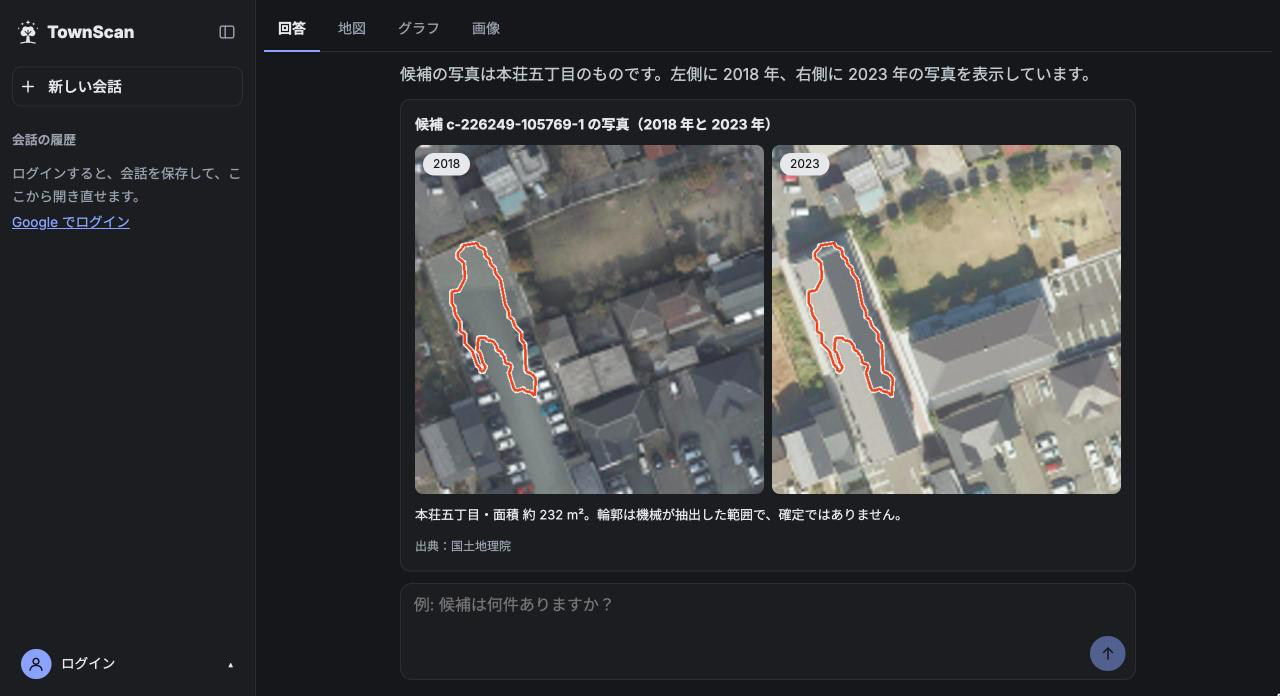
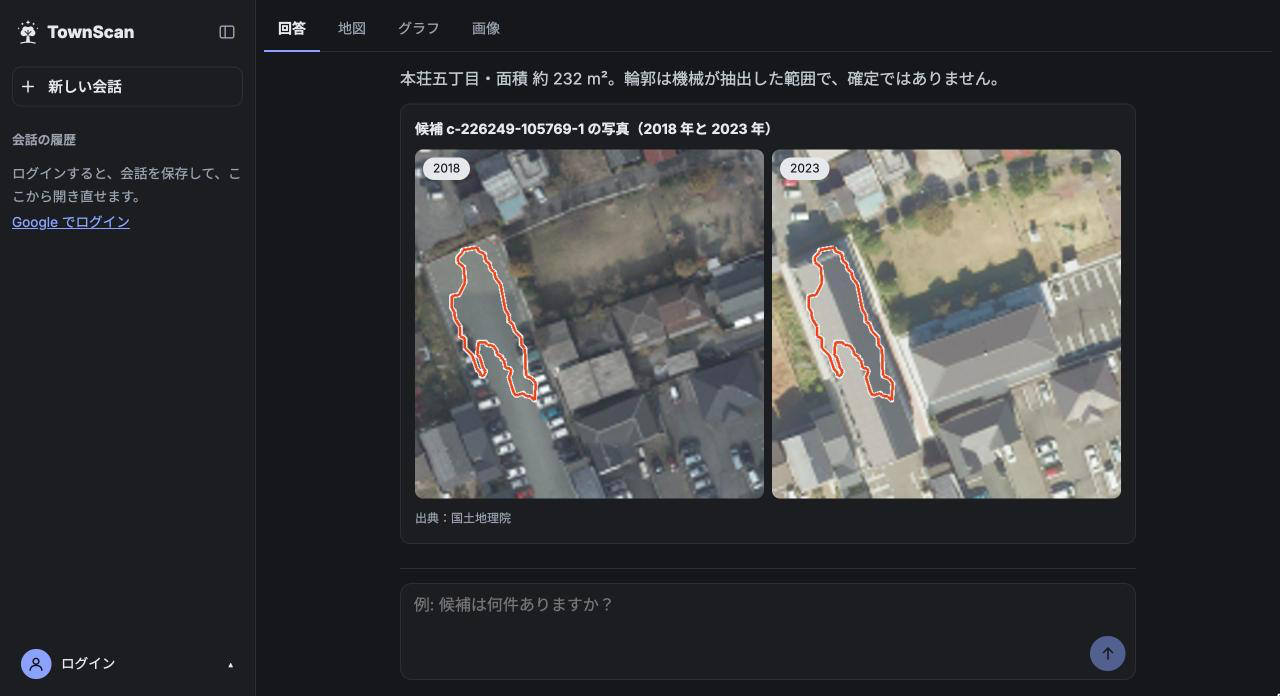
docs: record photo replies and the largest pick, retake photo shots
Also point to evals/ and record what real Gemini did on its 18 questions.

diff --git a/docs/spec-prototype.md b/docs/spec-prototype.md
@@ -20,6 +20,7 @@
 改訂 2026-11-26（17）: **分類の呼び名を、モデルが確認した事実に改めた**（ユーザー承認 2026-11-26「y」・実画面は「OK」。決定・理由は [ADR 0011](decisions/0011-class-labels-by-observation.md)）。①呼び名は「2018 年は未検出」「2018 年も検出」「未判定」。未判定の 1 件ごとの呼び名は、理由で「端のため未判定」（`edge`）「要確認」（`ambiguous`）。分類のキー・分類の決まり・DB は変えない。②地図用データの properties に `reason`、`count` の結果に `held` を足した（§4.4・§4.5）。③件数のカードは、表を出せるときは枠・見出し・内訳を出さない。候補の一覧も枠を外した。§4.4・§4.5・§5・§7 を直した
 改訂 2026-11-26（18）: **件数と候補の一覧の回答を、表から写真のカードに変えた**（ユーザー指摘「画像検出が主題なので、本文の次に画像」。案に「y」・直した実画面に「y」。決定・理由は [ADR 0012](decisions/0012-photo-cards-in-answers.md)）。①本文の次に、候補ごとの 2018・2023 年の写真のカードを出す（はじめは 4 件）。②候補 ID は画面に出さない（読み上げの名前と写真の説明には残す）。③分類の列は無くし、件数の回答は分類の見出し、一覧の回答は各カードに添える。④件数の回答の「根拠を見る」は、地図と対象・条件のあとへ移した。§7・§7.1.5・§8 の E8 を直した。API・DB は変えない。**実画面はダークで確かめた。ライト・狭い幅（1 列）・VoiceOver は未確認。**
 改訂 2026-11-26（19）: **回答を、短い本文と表示 1 つにした**（ユーザーが実画面を見て順に指示・承認。決定・理由は [ADR 0013](decisions/0013-one-view-per-answer.md)）。①本文の下の表示は、順位で 1 つ。ほかは、最新の回答の下の「表示を切り替える」に出す。②件数だけの回答の本文は、LLM でなくコードが組み立てる（§4.5。件数の結果に `area_ranking`・`tile_side_m`）。③回答から、分類の名前・内訳・凡例・色分け、「対象・条件」の行、「根拠を見る」を外し、写真の下に出典の 1 行を置く。④「詳細」の文字のリンクをやめ、写真を押して詳細を開く。⑤拡大ビューを閉じる手段は、右上の ✕ と Esc の 1 通りにした（「チャットへ戻る」と詳細の「閉じる」を外した）。拡大ビューの地図・グラフ・候補の詳細・精度の画面の分類の表示は、変えていない。
+改訂 2026-11-26（20）: （[ADR 0013](decisions/0013-one-view-per-answer.md) の追記。ユーザー承認）①写真 1 件だけの回答の本文は、実 LLM の文を使わず、結果の説明にする（§4.5）。②写真の対象は、分類の指定が無ければ全分類で面積が最大の候補（それまでは「2018 年は未検出」を先に選んでいた）。③Gemini への指示に、断りの理由の使い分けを足した。④チャットのツール選択の評価 `evals/` を足した。
 位置づけ: [plan.md](plan.md) の P2（建物抽出と評価）・P3（差分・API・DB）・P4（チャット）を、薄く一通り通す。GEE 層（P5）・パネル（P6）・公開（P7）は対象外。
 
 ## 1. 何ができれば「たたき台」か
@@ -402,11 +403,13 @@ ToolResult =
   - `area_ranking`（2 地区以上を数えて 1 件以上のとき）: 対象の地区の数・候補がある地区の数と、`top`（件数の多い順・同数は名前順で、2 番目に多い件数の地区まで）。本文は「解析した S 区画（各約 130 m 四方）のうち W 区画にあり、最も多いのは A の n 件、次が B の m 件です。」。同じ件数は「A・B の各 n 件」。候補がある区画がすべて同じ件数なら「どの区画も n 件です」。1 位が 4 区画以上なら名前を並べず「最も多い区画は n 件です」、2 位が 4 区画以上なら 2 位を言わない。1 区画だけなら「…のうち、A の区画だけにあります。」、全区画なら「…のすべてにあり、」。
   - 1 地区の指定は「対象は、約 130 m 四方の区画です。」を添える（地区の名前は丁目だが、数えたのは丁目の全体ではない）。0 件は「…はありません。」と、数えた範囲の 1 文。
   - `tile_side_m`（130）は、本文の数字の検査が結果の値として照合するための項目で、LLM へは送らない。「四方」は、数の検査で数と見なさない語に足した。
+- **写真 1 件だけの回答の本文**（結果が `detection_image` 1 件で、`LLM_PROVIDER=gemini` のとき。[ADR 0013](decisions/0013-one-view-per-answer.md)）: LLM の文は使わず、結果の `caption`（地区・面積・輪郭の注記）を本文にする。どう選んだか（いちばん大きい、など）は言わない。画面は、本文にある説明をカードで繰り返さない。模擬モデルの本文は、候補の ID を書く（模擬の振り分けは、前の本文の ID で対象を引き継ぐ）。
+- **写真の対象の選び方**（`show_candidate` で `candidate_id` が無いとき）: 地区・分類の条件に合う候補のうち、面積が最大のもの（同じ面積は ID の昇順）。分類の指定が無ければ、全分類から選ぶ（誤検出が出ることもある）。
 - 模擬モデルは、日本語の規則で意図を決める（件数・一覧・比較・詳細／写真・精度・使い方・範囲外）。地区名は DB の `areas.name`・`ward` との部分一致。意図は `tool_calls` に出す。
-- 範囲外の例: 天気・雑談、2024 年以降の棟の確認（写真が無い → `no_photo_period`）、衛星の「変化の当たり」（`not_implemented`: 未実装と言う）、対象地区の外。
+- 範囲外の例: 天気・雑談、2024 年以降の棟の確認（写真が無い → `no_photo_period`）、衛星の「変化の当たり」・屋根の太陽光パネル・取り壊しや減少（`not_implemented`: 未実装と言う）、対象地区の外。
 - LLM の切り替え: 環境変数 `LLM_PROVIDER`（`mock`＝API 自体の既定・テスト用、`gemini`＝compose の既定。§2.2）。道具の登録口は、後から GEE の道具を足せる形にする（登録表）。
 - **Gemini を選んだとき**（`LLM_PROVIDER=gemini`。実装は `api/internal/chat/gemini*.go`）:
-  - **役割**: 「どのツールを呼ぶか」と「結果の説明文」だけ（件数だけの回答の本文は、上のとおりコードが組み立てる）。LLM が書く文は、2 文までのまとめにし、分類の名前と内訳・画面を見れば分かること・「増えた」「増加」を書かないよう、システムの指示で言う（指示なので、守られる保証は無い）。座標・ID は書かせない。数字・件数・面積は、結果に書かれている値だけを、そのまま書いてよい（システムの指示で言い、文は `guard_numbers` が結果と照合して検査する。結果にない数字・漢数字・英語の数詞は固定の文に替える。カードの位置の語〔上の・下の など〕は取り除き、上記・下記は固定の文に替える。**検査が止めるのは数字と位置の語だけ**で、数字以外の主張〔最も多い・過半など〕は検査の外。[ADR 0009](decisions/0009-llm-writes-result-numbers.md)）。結果（`results`）・`tool_calls` の形は、模擬のときと同じ。変わるのは、`message.content` と、どのツールを呼ぶか。
+  - **役割**: 「どのツールを呼ぶか」と「結果の説明文」だけ（件数だけ・写真 1 件だけの回答の本文は、上のとおりコードが決める）。LLM が書く文は、2 文までのまとめにし、分類の名前と内訳・画面を見れば分かること・「増えた」「増加」を書かないよう、システムの指示で言う（指示なので、守られる保証は無い）。座標・ID は書かせない。数字・件数・面積は、結果に書かれている値だけを、そのまま書いてよい（システムの指示で言い、文は `guard_numbers` が結果と照合して検査する。結果にない数字・漢数字・英語の数詞は固定の文に替える。カードの位置の語〔上の・下の など〕は取り除き、上記・下記は固定の文に替える。**検査が止めるのは数字と位置の語だけ**で、数字以外の主張〔最も多い・過半など〕は検査の外。[ADR 0009](decisions/0009-llm-writes-result-numbers.md)）。結果（`results`）・`tool_calls` の形は、模擬のときと同じ。変わるのは、`message.content` と、どのツールを呼ぶか。
   - **呼び方**: `generateContent` に、登録表のツールを `functionDeclarations` として渡す（引数のスキーマは登録表の定義から作る）。最初の往復は `toolConfig` の `ANY`（必ずツールを呼ぶ。範囲外も `refuse` を呼ばせる）、結果（`functionResponse`）を渡したあとは `AUTO`。**モデルへの往復は最大 4 回、ツール呼び出しは最大 6 件、1 回の呼び出しの待ちは 20 秒（接続・受信の段階ごと）。チャット 1 回の要求の全体（往復・ツール・再試行）には 27 秒の期限があり、各呼び出しの待ちは残りの期限を超えない**（各呼び出しが渡した待ちの内に終わる場合、frontend の Next.js の転送の既定の待ち 30 秒より前に、API が 502 を返す。少しずつ届く応答は、呼び出しの途中では切らない）。ツールを 1 つも呼ばずに返った文は、根拠が無いので使わない。モデルが返した `functionCall` の発言は、`thoughtSignature` を含め、返ってきたとおりに戻す。
   - **送るもの（Google へ出ていくもの）**: 会話の末尾 20 件（`CONTEXT_MESSAGES`。質問の文面を含む）、システムの指示（規則と、地区の**名前と区だけ**。座標・件数・ID は入れない）、ツールの結果（出どころ・座標・画像の URL・候補 ID の一覧・区画の一辺の長さは除き、配列は 50 件まで）。地区は名前で指定でき、API が ID に直す。
   - **安全**: ① 返答文は必ず `guard_numbers` を通す（コードが組み立てた件数の本文は、模擬モデルの文と同じ範囲の検査）。LLM が結果に無い数字を書いた文は、安全なテンプレートに替わる（替えた回数だけをログに出す。文は出さない）。検査は、数字の連なり・漢数字＋助数詞に加え、空白や不可視の書式文字（ゼロ幅スペース・ソフトハイフンなど）で区切った数も見る（不可視の文字は先に除いてから数える。空白で区切った整数の並びは、つなげた数も、結果に無ければ落とす）。② `refuse` の `message` は、結果にそのまま入る（＝結果の数字として guard が認める）ので、写真の年（2018・2023）以外の数字を含む・空・300 文字を超える文は、理由ごとの固定の文に替える。`suggestions` は捨てる（既定の候補が付く）。③ 返答文は 1000 文字までに切る（frontend が会話の全履歴を送り返し、1 件 2000 文字の上限があるため）。④ 宣言していない引数は、`tool_calls` に残さない。知らないツール名は、断りの結果にする。⑤ ユーザーの発言の中の指示には従わない、とシステムの指示で言うが、守られる保証は無い。実際の防ぎは、数字の検査・ツールの境界（結果は DB からだけ）・`refuse` の文の検査。
@@ -470,7 +473,7 @@ ToolResult =
     - `map_focus`: 回答の中の地図が出るときは、カードを出さない（地図が同じことを見せる）。2 位以下のときと、地図が出ない回答（別の解析結果）では、1 文（「地図で、候補 N 件を目立たせて表示します」。候補が 0 件なら「地図で、この範囲を表示します」）と、ボタン「地図で見る」（2 位以下のときは、回答の下の「表示を切り替える」の「地図で見る」が代わる）。
     - `detection_image`: 2018・2023 の写真 2 枚と、説明（地区・面積・輪郭の注意。分類は書かない）と、出典。**写真を押すと詳細が開く**（ボタンは置かない）。別の解析結果の回答では、写真も、押すボタンも出さない。
     - `accuracy`・`refusal`・未知の型・壊れた結果: 今のまま（`accuracy` に「根拠を見る」は無い）。拡大ビューは開かない。
-  - **回答の中の図**（`frontend/components/AnswerFigure.tsx`・`frontend/lib/answer-view.ts` の `figureKinds`。ユーザー依頼 2026-11-25。読んで終わる数字だけでなく、グラフ・地図も会話の中で見られるようにし、大きく見たいときだけ拡大ビューへ広げる）:
+  - **回答の中の図**（`frontend/components/AnswerFigure.tsx`・`frontend/lib/answer-view.ts` の `planAnswer`。ユーザー依頼 2026-11-25。読んで終わる数字だけでなく、グラフ・地図も会話の中で見られるようにし、大きく見たいときだけ拡大ビューへ広げる）:
     - **出る条件**（`planAnswer` の `figure`）: 順位が 1 位の結果が `compare` ならグラフ、`map_focus` なら地図。**図は、1 つの回答に多くても 1 つ**。`count`・候補の一覧・`detection_image`・`accuracy`・`refusal`・知らない型・壊れた結果には出さない。**写真の比較（詳細）は図に入れない**（写真を押すと、拡大ビューが写真の比較で開く）。
     - **位置・見た目**: 本文（比較は合計の 1 行）の下。幅は結果カードと同じ列（`--chat-w`）。枠・背景は結果カードの流儀（`.result-card` を重ねて使う。既存のトークンだけ。ライト・ダークとも読める）。頭の行は、図の名前（「地図」「グラフ」）と、右端の「拡大」ボタン。**回答の中の図は、分類で分けない**: 地図は `MapPanel` の `inline`（地図と現在表示の帯だけ。凡例は無く、印・形は全部同じ色・丸・実線で、名前は「候補・面積」。選択中の候補のカードに分類のバッジを出さない。ツールバー・集計の帯・「候補を一覧で見る」は拡大ビューの地図にだけ置く。戻す操作が無いので、地区の枠を押しても絞り込まない）で、**地図の枠（`.map-stage`）は固定の高さ**（`clamp(360px, 55vw, 420px)`。狭い幅でも 360px）。グラフは `AreaChartView` の `inline`（地区ごとの 1 色の棒と件数。分類の切り替え・説明・「表で見る」は無い。高さは中身のまま）。凡例が無いので、分類を絞った状態では「一部の候補に絞って表示しています」と言う。
     - **状態は、その回答の拡大ビューと共有する**: 回答ごとの状態（タブ・絞り込み・強調・選んだ候補・寄せ先。`HomeClient` が持つ）を、図が読み、操作は同じ関数で、回答の鍵（`answerKey`）を渡して当てる（拡大ビューを開いているのが別の回答でも、その回答の図の操作は、その回答の状態にだけ当たる）。図で変えた絞り込み・強調・選択は、その回答の拡大ビューに引き継がれ、拡大ビューで変えたことは図に写る。状態が無い回答は、**はじめて図を出すとき**に、回答の結果から作る（絞り込みは「回答の条件」、強調・選択は `map_focus`・検出画像の候補。拡大ビューをはじめて開くときと同じ規則）。作るのは、地区の一覧と候補データが届いて（失敗も含む）から（それまでは、図の中身を出さず、「地図を読み込んでいます…」「グラフを読み込んでいます…」の枠）。

diff --git a/docs/decisions/0013-one-view-per-answer.md b/docs/decisions/0013-one-view-per-answer.md
@@ -1,6 +1,6 @@
 # 0013 回答は、短い本文と表示 1 つにする
 
-状態: **承認（2026-11-26。ユーザーが実画面を見て順に指示・承認し、最後に「y」）**。次を改める: [ADR 0012](0012-photo-cards-in-answers.md) の「分類の情報は残す」と「根拠を見る」の位置、[ADR 0011](0011-class-labels-by-observation.md) のうち回答の中で分類を呼び名で出すこと、[ADR 0009](0009-llm-writes-result-numbers.md) の「返答文は LLM が書く」（件数だけの回答に限る）、[ADR 0008](0008-full-width-tabs.md) の回答の並びと「閉じる」の扱い。**分類の決まり・分類のキー・DB は変えない**。
+状態: **承認（2026-11-26。ユーザーが実画面を見て順に指示・承認し、最後に「y」）**。次を改める: [ADR 0012](0012-photo-cards-in-answers.md) の「分類の情報は残す」と「根拠を見る」の位置、[ADR 0011](0011-class-labels-by-observation.md) のうち回答の中で分類を呼び名で出すこと、[ADR 0009](0009-llm-writes-result-numbers.md) の「返答文は LLM が書く」（件数だけの回答と、追記で写真 1 件だけの回答に限る）、[ADR 0008](0008-full-width-tabs.md) の回答の並びと「閉じる」の扱い。**分類の決まり・分類のキー・DB は変えない**。
 
 ## 背景
 
@@ -14,6 +14,8 @@
 
 - **本文の下の表示は 1 つ。順位で決める**: 地図の表示 ＞ 候補 1 件の写真 ＞ 地区の比較 ＞ 候補の一覧 ＞ 件数。2 位以下と、同じ対象の地図・グラフは、最新の回答の下の「表示を切り替える」に 2 つまで出す（押しても質問は送らない）。順位はコードの決まりで、同じ結果にはいつも同じ表示になる。
 - **件数だけの回答の本文は、コードが組み立てる**。多い地区の順位もコードが計算し、結果の `area_ranking` に入れる。ツールを選ぶのは LLM のまま。複数のツールを使った回答などの本文は LLM が書き、数字の検査もこれまでどおり。
+- **写真 1 件だけの回答も、LLM の文を使わない**（追記 2026-11-26 夜。承認: ユーザーの「y」）。本文は、結果の説明（地区・面積・輪郭の注記）。実 Gemini が「左側に 2018 年、右側に 2023 年の写真を表示しています」と、指示に反して画面を説明した（公開中のスクリーンショットに写った）。模擬モデルの本文は変えない（模擬の振り分けは、前の本文に書かれた候補の ID で対象を引き継ぐ。実 LLM には ID を書かせないので、実 LLM に渡る会話にはもともと ID が無い）。
+- **写真の対象は、言葉どおり最大の候補**（同じ追記）。分類の指定が無ければ、全分類で面積が最大のものを選ぶ。それまでは「2018 年は未検出」を先に選び、地区を指定すると最大でないことがあった（実データでは 2 地区）。薄場一丁目では、目視で橋の誤検出だった候補（142.25 m²）が出る。誤検出も、このアプリの限界としてそのまま見せる。全地区の最大（約 232 m²）は変わらない。
 - **回答の中では分類を出さない**。見出し・札・内訳・凡例・色分けを外し、回答の中の地図とグラフは 1 色にする。拡大ビューの地図・グラフ、候補の詳細、精度の画面は、分類を残す。
 - **分類を指定した件数の本文は、条件を言葉で言う**: 「モデルが 2023 年の写真だけで見つけた候補」「モデルが 2018 年の写真でも見つけた候補」「判定できていない候補」（後の 2 つは、同じ形にそろえた起草者の追加）。「2018 年の写真に写っていない」とは書かない。確かめたのは「モデルが検出しなかった」ことまでで、目視で 2018 年側の取りこぼしがあった（ADR 0011）。
 - **数えた範囲を言う**: 地区の名前は丁目だが、数えたのは約 130 m 四方の 1 区画。件数の本文に書く。
@@ -39,10 +41,12 @@
 
 ## 影響・残る点
 
-- **指定の地区の「いちばん大きい候補」が、地区内の最大でないことがある。** 分類の指定が無いと「2018 年は未検出」を先に選ぶ（実データでは 2 地区）。回答に分類を出さないので、画面からは分からない。単純に最大を選ぶと、薄場一丁目では橋の誤検出（142.25 m²）が出る。今回は直していない。
+- 写真 1 件だけの回答は、聞き方が違っても同じ形になる。「何階建て？」のような質問で写真のツールが選ばれると、本文はその問いに触れない。
+- 写真 1 件のカードの題には、候補の ID が出る。
 - **2 位以下の結果は、最新の回答からしか出せない。** 前の回答では、切り替えが消える。
 - 件数の本文は、聞き方が違っても同じ形になる。
 - 分類を指定した**一覧の題**と、別の解析結果の回答の比較の文には、分類名が残る。
 - 比較・一覧・地図の表示の回答には、1 区画の大きさの注記が出ない。
-- 使わなくなったコード（`AnswerScope.tsx` とそのテスト・CSS、チャットの `ToolCallContext`、結果カードの `notes` の部分、図の `withMap`）は消した。地図の表示のカードを出さないときの合成データの印は残した（`MapFocusCard` の `chipOnly`）。テストだけが使う関数が 2 つ残る（`figureKinds`・`areaScopeHint`）。
-- **未確認**: 新しい指示での実 Gemini の返答文、ライトの表示、幅の狭い表示、指で押す画面の ✕、VoiceOver。
+- 使わなくなったコード（`AnswerScope.tsx` とそのテスト・CSS、チャットの `ToolCallContext`、結果カードの `notes` の部分、図の `withMap`）は消した。地図の表示のカードを出さないときの合成データの印は残した（`MapFocusCard` の `chipOnly`）。テストだけが使っていた 2 つの関数（`figureKinds`・`areaScopeHint`）も消した。
+- **実 Gemini の確認（2026-11-26 夜。`evals/` の 18 問）**: はじめは 15 問が合格。屋根の太陽光パネル・取り壊し・衛星の 3 問は、断ってはいるが理由が `not_implemented` でなく `out_of_scope` だった。指示に理由の使い分けを足して流し直し、18 問が合格した（判定の基準は変えていない。各 1 回の実行で、毎回合格するとは限らない）。本文は判定の外で、地図・一覧の回答に「表示しました」と画面を説明する文が残る。精度の質問では、物体単位 F1 と「新築の再現率は未測定」を言わない回があった（数字はカードに出る）。
+- **未確認**: 指で押す画面の ✕、VoiceOver。狭い表示は、幅 500px で写真の回答・件数の写真のカード（1 列）・✕ だけを確かめた。

diff --git a/README.ja.md b/README.ja.md
@@ -12,7 +12,7 @@
 
 ## 機能
 
-- **ツールの結果を根拠にするチャット。** カード・グラフ・地図は、ツールの結果のまま描きます。件数だけの回答の本文は、コードが組み立てます（[ADR 0013](docs/decisions/0013-one-view-per-answer.md)）。それ以外の本文はモデルが書き、結果に無い数字があれば固定の文に差し替えます（[ADR 0009](docs/decisions/0009-llm-writes-result-numbers.md)）。数字以外の主張は、この検査の外です。範囲外の質問は断ります。モデルは Gemini です（キーが要ります）。
+- **ツールの結果を根拠にするチャット。** カード・グラフ・地図は、ツールの結果のまま描きます。件数だけ・写真 1 件だけの回答の本文は、コードが決めます（[ADR 0013](docs/decisions/0013-one-view-per-answer.md)）。それ以外の本文はモデルが書き、結果に無い数字があれば固定の文に差し替えます（[ADR 0009](docs/decisions/0009-llm-writes-result-numbers.md)）。数字以外の主張は、この検査の外です。範囲外の質問は断ります。モデルは Gemini です（キーが要ります）。
 - **新築候補の 3 分類。** 2023 年の建物の外形のうち 2018 年の建物データに無いものを、2018 年の写真で確かめます: `confirmed_new`・`existing_omission`・`uncertain`。
 - **地図と写真の見比べ。** 候補を地理院タイルの上に描き、1 棟の 2018 年と 2023 年の写真を並べます。
 - **限界を隠さない精度ページ。** 評価用の物体単位 F1 は約 0.16 です。新築の再現率は「未測定」と明示しています。
@@ -32,7 +32,7 @@ flowchart LR
     B -->|"地図タイル"| G["地理院タイル"]
 ```
 
-質問は API のチャットを通ります。Gemini がツール（件数・比較・一覧・検出画像）を選び、カードはツールの結果から作ります。返答の本文は、その結果をもとに Gemini が書きます（件数だけの回答はコードが組み立てます）。数字の検査が、結果に無い数字を含む返答を、安全な文に差し替えます。
+質問は API のチャットを通ります。Gemini がツール（件数・比較・一覧・検出画像）を選び、カードはツールの結果から作ります。返答の本文は、その結果をもとに Gemini が書きます（件数だけ・写真 1 件だけの回答はコードが決めます）。数字の検査が、結果に無い数字を含む返答を、安全な文に差し替えます。
 
 `compose.yaml` は、Go の API を Gemini（既定が `LLM_PROVIDER=gemini`）で動かします。API は契約の検査（`contract/`）で確かめます。データの読み込みは Python です（`docker compose run --rm loader python -m pipeline.load …`）。
 
@@ -65,7 +65,7 @@ scripts/dev-up.sh    # frontend をビルドして、db・api・web を起動す
 
 - 画面: <http://127.0.0.1:3500>
 - `data/` は Git に入れていない（写真と建物データは再配布しない）ので、クローンしただけでは候補は空です。実行に必要なファイルは [docs/spec-prototype.md](docs/spec-prototype.md) §4.1 にあります。
-- 止める: `docker compose down`（DB ごと消すときは `-v`）。検査: `scripts/verify.sh [repo|pipeline|loader|contract|frontend|all]`。
+- 止める: `docker compose down`（DB ごと消すときは `-v`）。検査: `scripts/verify.sh [repo|pipeline|loader|contract|frontend|all]`。実 Gemini のツール選択の評価は [evals/](evals/README.md) です。
 - Gemini の API キー（`GEMINI_API_KEY`）は必須です（既定の設定では、無いと API が起動しません）。Google ログインは任意です。どちらも Infisical（`dev-up.sh` には `TOWNSCAN_INFISICAL_PROJECT_ID` を設定）か `.env` に置きます（[ADR 0004](docs/decisions/0004-secrets-infisical.md)）。ログインは <http://localhost:3500> で試します（`127.0.0.1` では戻れません）。`BETTER_AUTH_SECRET` は、一度決めたら変えないでください。
 
 ## 文書

diff --git a/CLAUDE.md b/CLAUDE.md
@@ -6,12 +6,13 @@ TownScan。熊本市中心部の空中写真から新築の候補を棟ごとに
 ## 構成と検査
 
 - `pipeline/`（推論後の後処理・3 分類・評価・DB へのローダー）・`api/`（Go の API・Postgres・チャット）・`frontend/`（Next.js）・`compose.yaml`。起動は `scripts/dev-up.sh`。仕様の正本は [docs/spec-prototype.md](docs/spec-prototype.md)。
+- `evals/` は、実 Gemini が質問ごとに期待したツールを呼ぶかを測る（実 API。[evals/README.md](evals/README.md)）。指示（`gemini_model.go`）やツールを変えたら、承認を得て流し直す。
 - 検査は `scripts/verify.sh`（repo・pipeline・loader・contract・frontend）。**Go のテストは含まれない**ので、`api/` を変えたら `scripts/test-go.sh` を引数なしで流す。**CI が流すのは `verify.sh repo` だけ**で、CI の成功はテストの合格ではない。
 
 ## 守ること
 
 - **仕様が先。** 段の始めに `docs/plan.md` へ出口条件（実行できる検査）を書いてから実装する。評価（P2）を先に作り、指標を落とさない。
-- **数字は、ツールの結果の値だけから出す。** 結果（件数・表・地図など）は画面が結果のまま描く。**件数の結果 1 件だけの回答は、本文をコードが組み立てる**（LLM の文は使わない。`api/internal/chat/text.go` の `renderCount`。[ADR 0013](docs/decisions/0013-one-view-per-answer.md)）。それ以外の回答で LLM の返答文に書かれる数字は、結果の値だけから出ていることを `guard.go` が検査し、満たさなければ固定文に替える（座標・ID は書かせない。[ADR 0009](docs/decisions/0009-llm-writes-result-numbers.md)）。**検査が止めるのは、数字とカードの位置の語（上の・下記など）だけ**で、数字以外の主張（最も多い・過半など）は検査の外。範囲外の質問は断る。
+- **数字は、ツールの結果の値だけから出す。** 結果（件数・表・地図など）は画面が結果のまま描く。**件数の結果 1 件だけの回答は、本文をコードが組み立てる**（LLM の文は使わない。`api/internal/chat/text.go` の `renderCount`。[ADR 0013](docs/decisions/0013-one-view-per-answer.md)）。**写真 1 件だけの回答も LLM の文を使わず、結果の説明を本文にする**（実 LLM のとき。`service.go`）。それ以外の回答で LLM の返答文に書かれる数字は、結果の値だけから出ていることを `guard.go` が検査し、満たさなければ固定文に替える（座標・ID は書かせない。[ADR 0009](docs/decisions/0009-llm-writes-result-numbers.md)）。**検査が止めるのは、数字とカードの位置の語（上の・下記など）だけ**で、数字以外の主張（最も多い・過半など）は検査の外。範囲外の質問は断る。
 - **データの規約を先に確かめる。** 画像・ラベルは、公式ページでライセンスを確認してから使い、ADR に残す。`data/` は Git に入れない（再配布しない）。
 - **実 API（課金）・外部への書き込み・新しいサービス・言語・DB（PostGIS を含む）は、事前に承認を得る**（件数・回数・概算費用を先に示す）。
 - **`.env`・`backups/` は読まない。** 値を表示・ログ・コミットしない。`BETTER_AUTH_SECRET` は `scripts/dev-up.sh` が 1 回だけ作り、**決めたら変えない**（DB の署名鍵 `auth_jwks` と Google のトークンの暗号化に使う）。秘密の置き場は Infisical（プロジェクト `townscan`・env dev。[ADR 0004](docs/decisions/0004-secrets-infisical.md)）で、`.env` は代わりの経路。`GOOGLE_CLIENT_ID`・`GOOGLE_CLIENT_SECRET`・`GEMINI_API_KEY` は、ユーザーが自分の端末で `scripts/login-secrets.sh` から登録する（値は私が読まない）。

diff --git a/README.md b/README.md
@@ -12,7 +12,7 @@ A chat app that finds candidates for new buildings in central Kumamoto City from
 
 ## Features
 
-- **A chat grounded in tool results.** Cards, charts and maps are drawn from the tool results as they are. A count-only reply is worded by code ([ADR 0013](docs/decisions/0013-one-view-per-answer.md)). Other replies are written by the model, and one with a number that is not in the results is replaced with a fixed text ([ADR 0009](docs/decisions/0009-llm-writes-result-numbers.md)); other claims are not checked. Out-of-scope questions are declined. The model is Gemini (an API key is needed).
+- **A chat grounded in tool results.** Cards, charts and maps are drawn from the tool results as they are. A reply that is only a count, or only one candidate's photos, is worded by code ([ADR 0013](docs/decisions/0013-one-view-per-answer.md)). Other replies are written by the model, and one with a number that is not in the results is replaced with a fixed text ([ADR 0009](docs/decisions/0009-llm-writes-result-numbers.md)); other claims are not checked. Out-of-scope questions are declined. The model is Gemini (an API key is needed).
 - **Three classes of candidates.** A 2023 building outline missing from the 2018 building data is checked against the 2018 photo: `confirmed_new`, `existing_omission` or `uncertain`.
 - **Map and photo comparison.** Candidates on GSI tiles, and the 2018 and 2023 crops of one building side by side.
 - **An accuracy page that shows its limits.** Held-out object F1 is about 0.16; recall for new buildings is "not measured".
@@ -32,7 +32,7 @@ flowchart LR
     B -->|"map tiles"| G["GSI tile server"]
 ```
 
-A question goes through the API's chat: Gemini picks a tool (counts, comparison, list, detection image), and the cards are built from the tool's result. Gemini writes the reply text from that result (a count-only reply is worded by code). A number check replaces any reply that contains a figure that is not in the result.
+A question goes through the API's chat: Gemini picks a tool (counts, comparison, list, detection image), and the cards are built from the tool's result. Gemini writes the reply text from that result (count-only and single-photo replies are worded by code). A number check replaces any reply that contains a figure that is not in the result.
 
 `compose.yaml` runs the Go API with Gemini (`LLM_PROVIDER=gemini` by default). The API is checked by the contract tests (`contract/`). Loading data is done in Python (`docker compose run --rm loader python -m pipeline.load …`).
 
@@ -65,7 +65,7 @@ scripts/dev-up.sh    # builds the frontend and starts db, api and web
 
 - App: <http://127.0.0.1:3500>
 - `data/` is not in Git (the photos and building data are not redistributed), so a fresh clone starts with no candidates. The files a run needs are in [docs/spec-prototype.md](docs/spec-prototype.md) §4.1.
-- Stop: `docker compose down` (add `-v` to delete the DB). Checks: `scripts/verify.sh [repo|pipeline|loader|contract|frontend|all]`.
+- Stop: `docker compose down` (add `-v` to delete the DB). Checks: `scripts/verify.sh [repo|pipeline|loader|contract|frontend|all]`. The eval of which tool real Gemini picks is in [evals/](evals/README.md).
 - A Gemini API key (`GEMINI_API_KEY`) is required: with the default settings the API does not start without it. Google sign-in is optional. Keep both in Infisical (set `TOWNSCAN_INFISICAL_PROJECT_ID` for `dev-up.sh`) or in `.env`: see [ADR 0004](docs/decisions/0004-secrets-infisical.md). Sign in at <http://localhost:3500>, not `127.0.0.1`, and never change `BETTER_AUTH_SECRET` once it is set.
 
 ## Documentation
